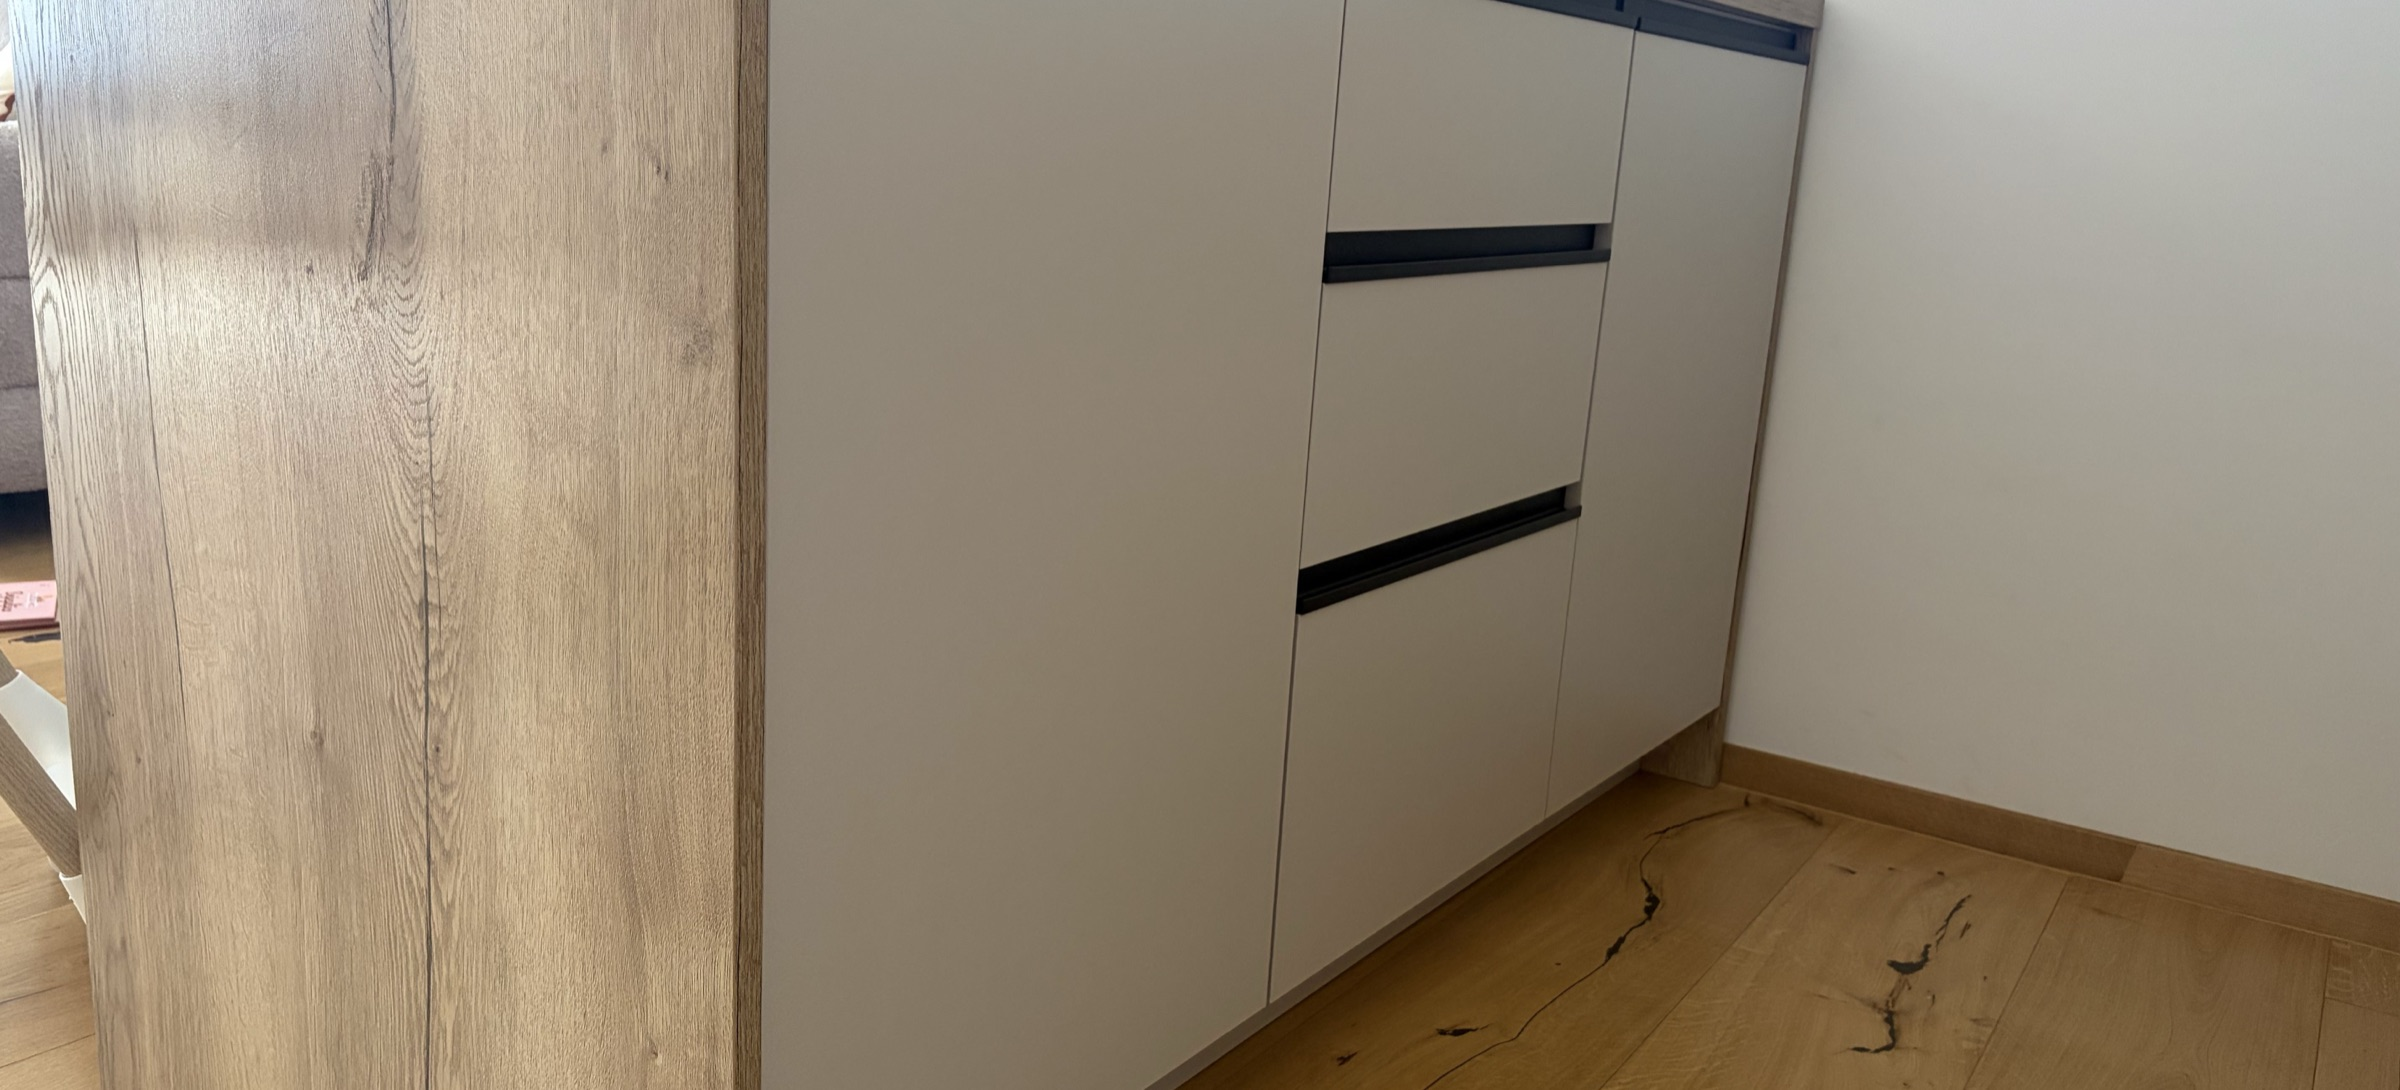
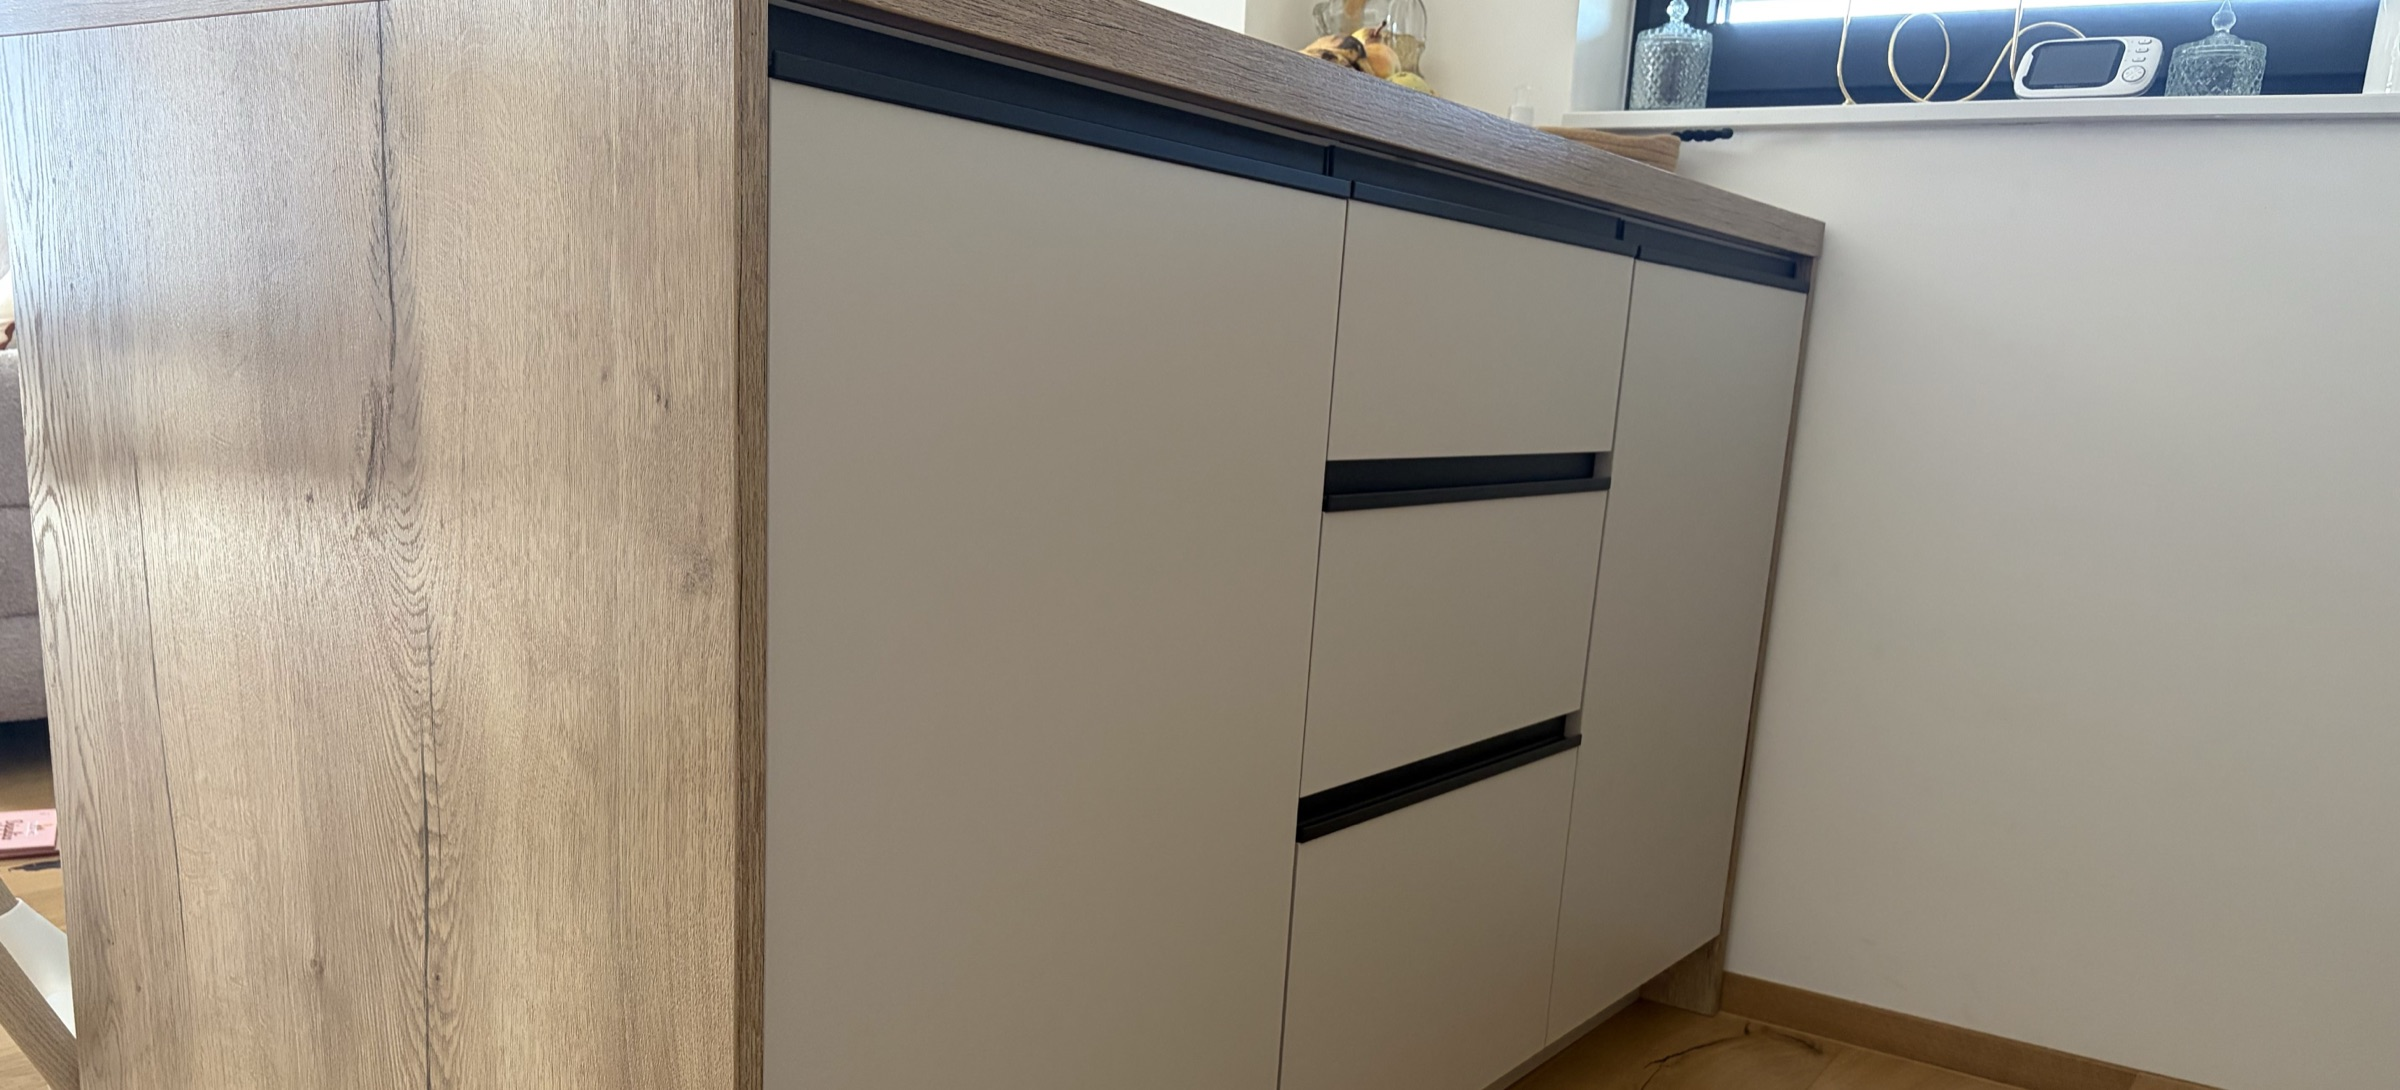
Fix hero crop, add kuhinja2 to gallery, rewrite O nama copy, fix typo
- Hero (desktop): the wide crop was centered on the source photo,
  which cut off the top edge of the drawer unit. Re-cropped with an
  offset so the full piece is visible, matching how it already looked
  on mobile.
- Added kuhinja2 back into the "Kuhinje po mjeri" gallery per request,
  positioned second (it's visually distinct from kuhinja1 despite
  being from the same shoot, so it earns its own gallery slot rather
  than being treated as the exact duplicate kuhinja2-the-file was).
- Rewrote "O nama" placeholder copy: it incorrectly called the
  business an "obrt" (sole proprietorship) when it's a j.d.o.o.
  Removed the wrong claim and tightened the copy rather than stating
  the legal form outright. Still placeholder text pending the
  client's final copy.
- Fixed "Predlog" -> "Prijedlog" (proces korak 02).

diff --git a/index.html b/index.html
@@ -158,9 +158,9 @@
     <div class="o-nama-content">
       <p class="eyebrow">O nama</p>
       <!-- PRIVREMENI TEKST -->
-      <h2 class="o-nama-heading">Stolarski obrt koji posao vodi od prve skice do zadnjeg vijka.</h2>
+      <h2 class="o-nama-heading">Od prve mjere do zadnjeg vijka — sve radimo sami.</h2>
       <!-- PRIVREMENI TEKST -->
-      <p class="o-nama-copy">Fronta design izrađuje namještaj po mjeri za domove u Slavonskom Brodu i okolici. Svaki komad nastaje u našoj radionici, bez posrednika i podizvođača, prilagođen prostoru, navikama i budžetu naručitelja — od kuhinja do ugradbenih ormara i dnevnih prostora.</p>
+      <p class="o-nama-copy">Fronta design projektira i izrađuje namještaj po mjeri za domove u Slavonskom Brodu i okolici — kuhinje, ugradbene ormare te dnevne i spavaće prostore. Svaki komad nastaje u našoj radionici i montiramo ga sami, bez podizvođača, prilagođen točno vašem prostoru, navikama i budžetu.</p>
       <div class="proces">
         <div class="proces-korak">
           <span class="proces-broj">01</span>
@@ -168,7 +168,7 @@
         </div>
         <div class="proces-korak">
           <span class="proces-broj">02</span>
-          <span>Predlog rasporeda, materijala i okova</span>
+          <span>Prijedlog rasporeda, materijala i okova</span>
         </div>
         <div class="proces-korak">
           <span class="proces-broj">03</span>

diff --git a/js/main.js b/js/main.js
@@ -11,6 +11,7 @@
       izvedba: 'Fronta design',
       galerija: [
         { src: 'images/kuhinje-01.jpg', label: 'Kuhinja — bijela mat, ugrađeni hladnjak' },
+        { src: 'images/kuhinje-20.jpg', label: 'Kuhinja — bijela mat, kutni pogled' },
         { src: 'images/kuhinje-02.jpg', label: 'Kuhinja — zelena mat, visoka kolona' },
         { src: 'images/kuhinje-03.jpg', label: 'Kuhinja — zelena mat, L raspored' },
         { src: 'images/kuhinje-04.jpg', label: 'Kuhinja — siva mat, L raspored' },
